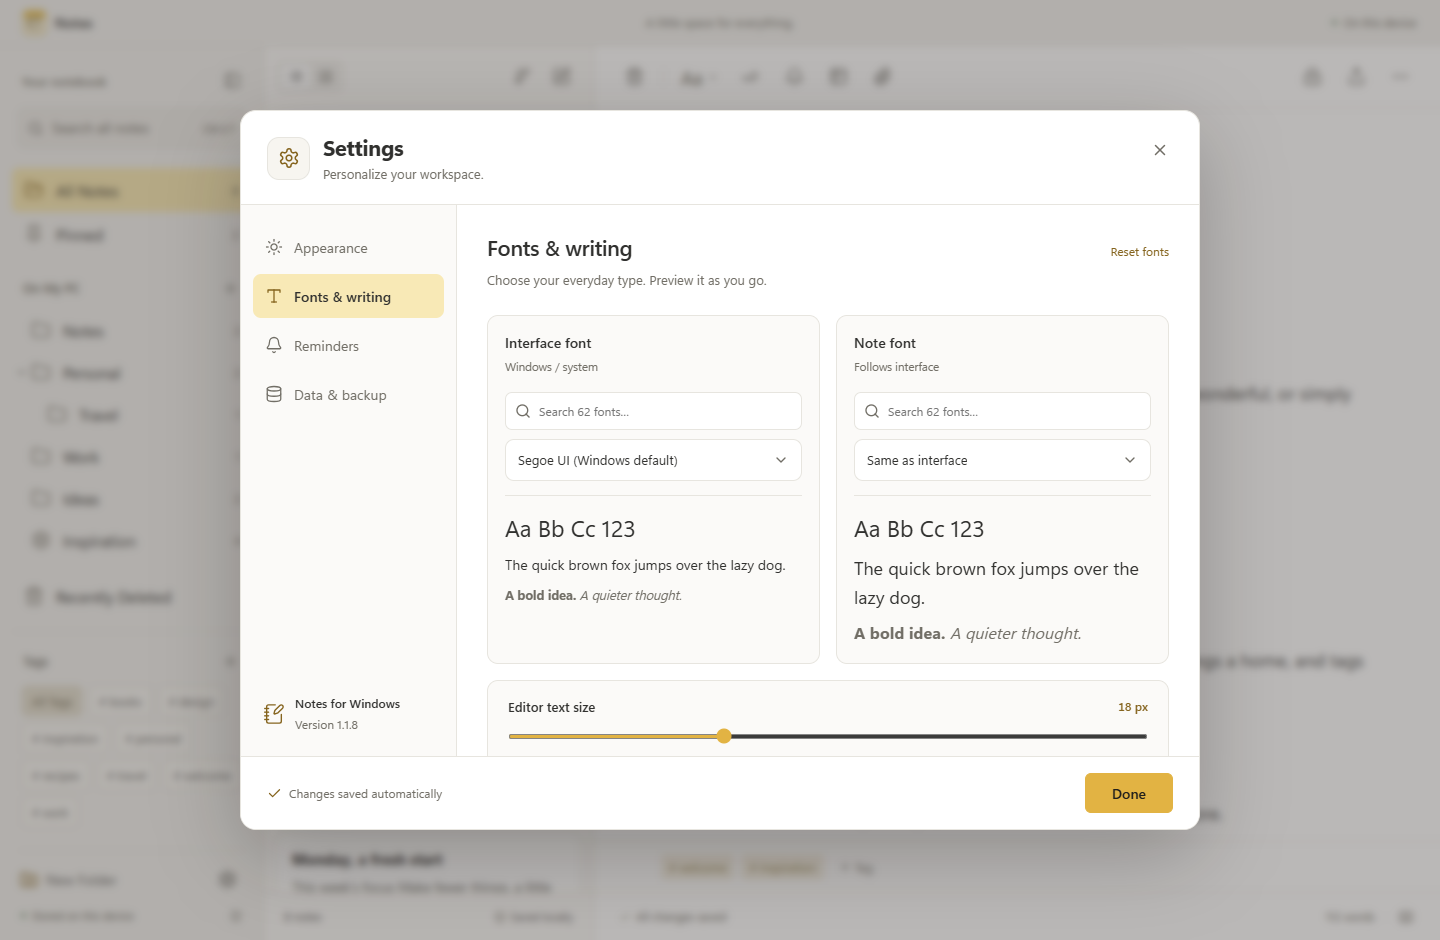
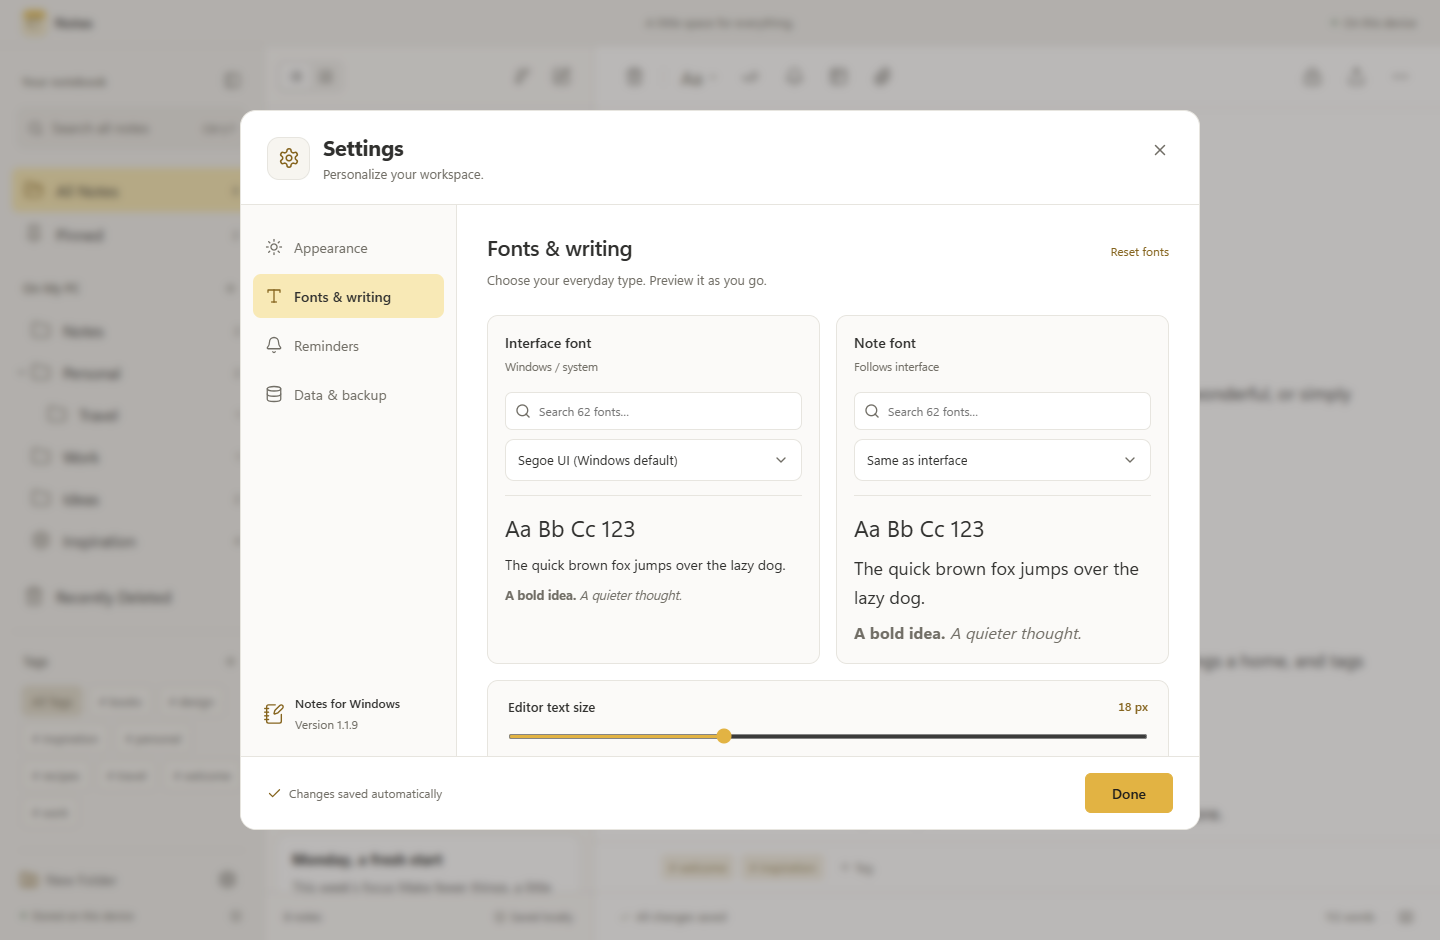
Remove Settings shadow and add note dividers

Changed region(s): [[0.1875, 0.8638, 0.8125, 0.9255]]

diff --git a/tests/ui/divider.spec.js b/tests/ui/divider.spec.js
@@ -1,0 +1,106 @@
+const { test, expect } = require("@playwright/test");
+
+test.beforeEach(async ({ page }) => {
+  await page.goto("/");
+  await expect(page.getByLabel("Note title", { exact: true })).toBeVisible();
+  await page
+    .getByRole("button", { name: "New note (Ctrl+N)", exact: true })
+    .click();
+  await page
+    .getByLabel("Note title", { exact: true })
+    .fill("A note with two sections");
+  const editor = page.getByLabel("Note content", { exact: true });
+  await editor.fill("First section.");
+  await editor.press("End");
+  await editor.press("Enter");
+  await editor.pressSequentially("Second section.");
+});
+
+test("toolbar divider uses the writing position, supports undo and redo, and persists", async ({
+  page,
+}) => {
+  const editor = page.getByLabel("Note content", { exact: true });
+  await editor.press("Home");
+  await page.getByRole("button", { name: "Text style", exact: true }).click();
+  await page
+    .getByRole("button", { name: "Horizontal divider", exact: true })
+    .click();
+  await expect(editor.locator("hr")).toHaveCount(1);
+  await expect(editor.locator("p")).toHaveText([
+    "First section.",
+    "Second section.",
+  ]);
+  expect(
+    await editor.evaluate((element) =>
+      [...element.children].map((node) => node.tagName),
+    ),
+  ).toEqual(["P", "HR", "P"]);
+  const dividerWidth = await editor.locator("hr").evaluate((element) => ({
+    line: element.getBoundingClientRect().width,
+    content: element.parentElement.clientWidth,
+    border: getComputedStyle(element).borderTopWidth,
+  }));
+  expect(
+    Math.abs(dividerWidth.line - dividerWidth.content),
+  ).toBeLessThanOrEqual(1);
+  expect(dividerWidth.border).toBe("1px");
+  await editor.press("Control+z");
+  await expect(editor.locator("hr")).toHaveCount(0);
+  await expect(editor.locator("p")).toHaveText([
+    "First section.",
+    "Second section.",
+  ]);
+  await editor.press("Control+y");
+  await expect(editor.locator("hr")).toHaveCount(1);
+  await expect(
+    page.getByText("All changes saved", { exact: true }),
+  ).toBeVisible();
+  await page.reload();
+  await page.locator('.note-card[title="A note with two sections"]').click();
+  await expect(editor.locator("hr")).toHaveCount(1);
+  await expect(editor.locator("p")).toHaveText([
+    "First section.",
+    "Second section.",
+  ]);
+});
+
+test("right-click Insert adds a divider at the clicked paragraph and leaves writing ready", async ({
+  page,
+}) => {
+  const editor = page.getByLabel("Note content", { exact: true });
+  const point = await editor
+    .locator("p")
+    .last()
+    .evaluate((paragraph) => {
+      const text = paragraph.firstChild;
+      const range = document.createRange();
+      range.setStart(text, text.textContent.length);
+      range.collapse(true);
+      const selection = window.getSelection();
+      selection.removeAllRanges();
+      selection.addRange(range);
+      const bounds = range.getBoundingClientRect();
+      return { x: bounds.left + 1, y: bounds.top + bounds.height / 2 };
+    });
+  await page.mouse.click(point.x, point.y, { button: "right" });
+  await expect(
+    page.getByRole("menu", { name: "Note editor actions", exact: true }),
+  ).toBeVisible();
+  await page.getByRole("menuitem", { name: "Insert", exact: true }).hover();
+  await page
+    .getByRole("menuitem", { name: "Horizontal divider", exact: true })
+    .click();
+  await expect(editor.locator("hr")).toHaveCount(1);
+  expect(
+    await editor.evaluate((element) =>
+      [...element.children].map((node) => node.tagName),
+    ),
+  ).toEqual(["P", "P", "HR", "P"]);
+  await expect(editor).toBeFocused();
+  await editor.pressSequentially("Another thought below the line.");
+  await expect(editor.locator("p").last()).toHaveText(
+    "Another thought below the line.",
+  );
+  await expect(editor.locator("p").first()).toHaveText("First section.");
+  await expect(editor.locator("p").nth(1)).toHaveText("Second section.");
+});

diff --git a/src/SettingsDialog.jsx b/src/SettingsDialog.jsx
@@ -178,7 +178,6 @@ export default function SettingsDialog({
             className="settings-panel"
             role="tabpanel"
             aria-labelledby="settings-tab-appearance"
-            tabIndex={0}
             hidden={active !== "appearance"}
           >
             <PanelHeading title="Appearance">
@@ -360,7 +359,6 @@ export default function SettingsDialog({
             className="settings-panel"
             role="tabpanel"
             aria-labelledby="settings-tab-fonts"
-            tabIndex={0}
             hidden={active !== "fonts"}
           >
             <div className="settings-panel-title-row">
@@ -426,7 +424,6 @@ export default function SettingsDialog({
             className="settings-panel"
             role="tabpanel"
             aria-labelledby="settings-tab-reminders"
-            tabIndex={0}
             hidden={active !== "reminders"}
           >
             <PanelHeading title="Reminders">
@@ -516,7 +513,6 @@ export default function SettingsDialog({
             className="settings-panel"
             role="tabpanel"
             aria-labelledby="settings-tab-data"
-            tabIndex={0}
             hidden={active !== "data"}
           >
             <PanelHeading title="Data & backup">

diff --git a/src/Editor.jsx b/src/Editor.jsx
@@ -41,9 +41,12 @@ import {
   Link2,
   Unlink,
   ChevronRight,
+  Plus,
+  Minus,
   X,
 } from "lucide-react";
 import ContextMenu from "./ContextMenu.jsx";
+import "./divider.css";
 
 export const cleanHTML = (html) =>
   DOMPurify.sanitize(html, {
@@ -468,6 +471,18 @@ export default function NoteEditor({
         ...(canEdit
           ? [
               { separator: true },
+              {
+                label: "Insert",
+                icon: Plus,
+                items: [
+                  {
+                    label: "Horizontal divider",
+                    icon: Minus,
+                    disabled: !editor.can().setHorizontalRule(),
+                    onSelect: runCommand("setHorizontalRule"),
+                  },
+                ],
+              },
               {
                 label: "Text style",
                 icon: Type,

diff --git a/src/App.jsx b/src/App.jsx
@@ -1567,6 +1567,12 @@ export default function App() {
                     Code block
                   </MenuItem>
                   <MenuItem
+                    icon={Minus}
+                    onClick={() => format("setHorizontalRule")}
+                  >
+                    Horizontal divider
+                  </MenuItem>
+                  <MenuItem
                     icon={ChevronRight}
                     onClick={() =>
                       action(() =>

diff --git a/src/divider.css b/src/divider.css
@@ -1,0 +1,19 @@
+.note-document .note-prose hr {
+  width: 100%;
+  height: 0;
+  margin: 1.5em 0;
+  border: 0;
+  border-top: 1px solid var(--note-meta, var(--border));
+}
+
+.note-document .note-prose hr.ProseMirror-selectednode {
+  border-top-color: var(--accent);
+  outline: 2px solid var(--selected);
+  outline-offset: 4px;
+}
+
+@media print {
+  .note-document .note-prose hr {
+    border-top-color: #777;
+  }
+}

diff --git a/src/settings.css b/src/settings.css
@@ -3,6 +3,7 @@
   height: min(720px, calc(100dvh - 60px));
   overflow: hidden;
   border-radius: 16px;
+  box-shadow: none;
 }
 .settings-modal > .modal-close {
   top: 22px;
@@ -124,11 +125,6 @@
 }
 .settings-panel[hidden] {
   display: none;
-}
-.settings-panel:focus-visible {
-  outline: 2px solid var(--note-focus);
-  outline-offset: 5px;
-  border-radius: 4px;
 }
 .settings-panel-heading {
   margin-bottom: 25px;

diff --git a/README.md b/README.md
@@ -22,7 +22,7 @@ Updates are installed manually from Releases. Back up your notebook from Setting
 
 - **Make it comfortable:** light, dark, and system appearance; list and gallery views; adjustable interface and editor text sizes; font choices in Settings, including bundled fonts that work offline and Windows system fonts.
 - **Make it yours:** 18 normal and neon accent colors across selections, controls, and reminder popups. Choose **Settings → Appearance → Accent color**; the choice stays on your device.
-- **Write and format:** rich text, headings, emphasis, highlights, quotes, code blocks, checklists, lists, tables, collapsible sections, undo/redo, and spell checking.
+- **Write and format:** rich text, headings, emphasis, highlights, quotes, code blocks, checklists, lists, tables, horizontal dividers, collapsible sections, undo/redo, and spell checking. Add a full-width line from **Text style → Horizontal divider** or right-click inside a note and choose **Insert → Horizontal divider**.
 - **Keep things organized:** folders and subfolders, drag notes into folders, pins, tags, tag-based Smart Folders, search, and links between notes by typing `>>`.
 - **Work from a right-click:** note-card menus for pinning, moving, reminders, locking, duplication, and deletion; editor menus for paragraphs, headings, lists, formatting, tables, links, and clipboard actions. Keyboard users can press **Shift+F10**.
 - **Capture more:** images, file attachments, and English text recognition from imported images or camera photos.

diff --git a/CHANGELOG.md b/CHANGELOG.md
@@ -1,5 +1,11 @@
 # Changelog
 
+## 1.1.9 — 2026-10-16
+
+- Removed the Settings window shadow while preserving its blurred backdrop.
+- Removed the oversized Settings content focus border; keyboard navigation goes directly to the controls with their own focus indicators.
+- Added full-width horizontal dividers through the Text style menu and the editor's right-click Insert menu, with undo/redo and automatic saving.
+
 ## 1.1.8 — 2026-10-16
 
 - Refined note cards with clearer titles, balanced metadata, quieter empty states, and consistent rounded surfaces.
